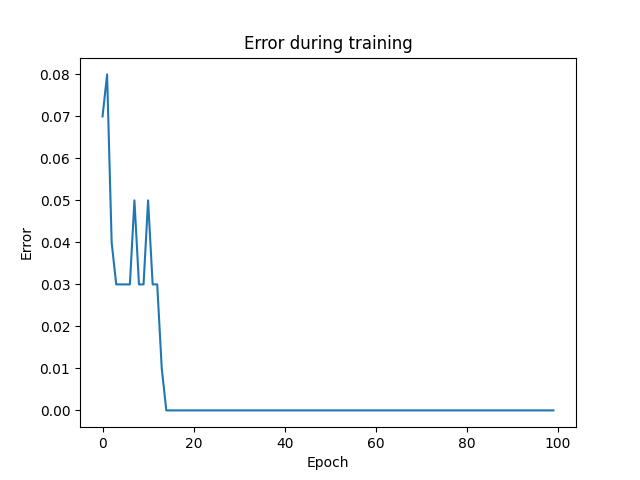
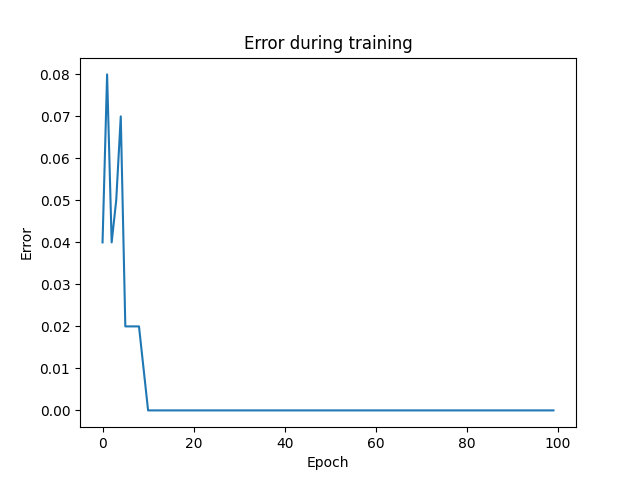
fix main function call

Changed region(s): [[0.1562, 0.1875, 0.2812, 0.875]]

diff --git a/src/main.py b/src/main.py
@@ -111,7 +111,7 @@ def main():
 
     percep = Perceptron(train_data, test_data, weights)
     for epoch in range(EPOCHS):
-        err.append(percep.batch_update_weights(0.1))
+        err.append(percep.incremental_update_weights(0.1))
         if (epoch == 4 or epoch == 9 or epoch == 49 or epoch == 99):
             plotDecSurf(epoch, percep.weights, percep.train)
         #print(percep.mse())
